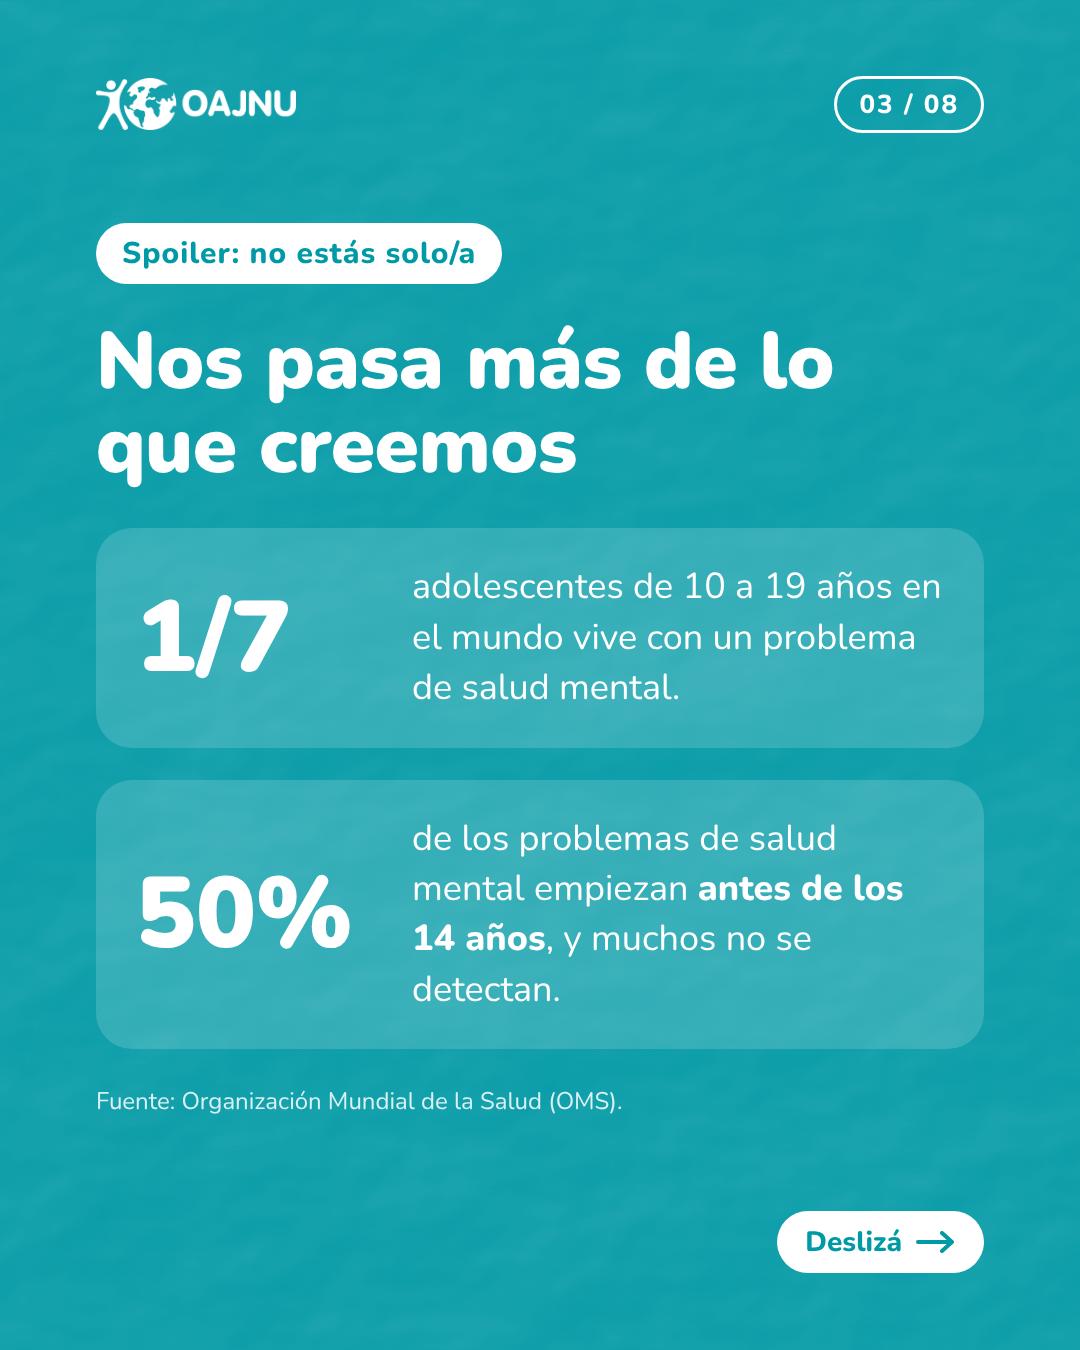
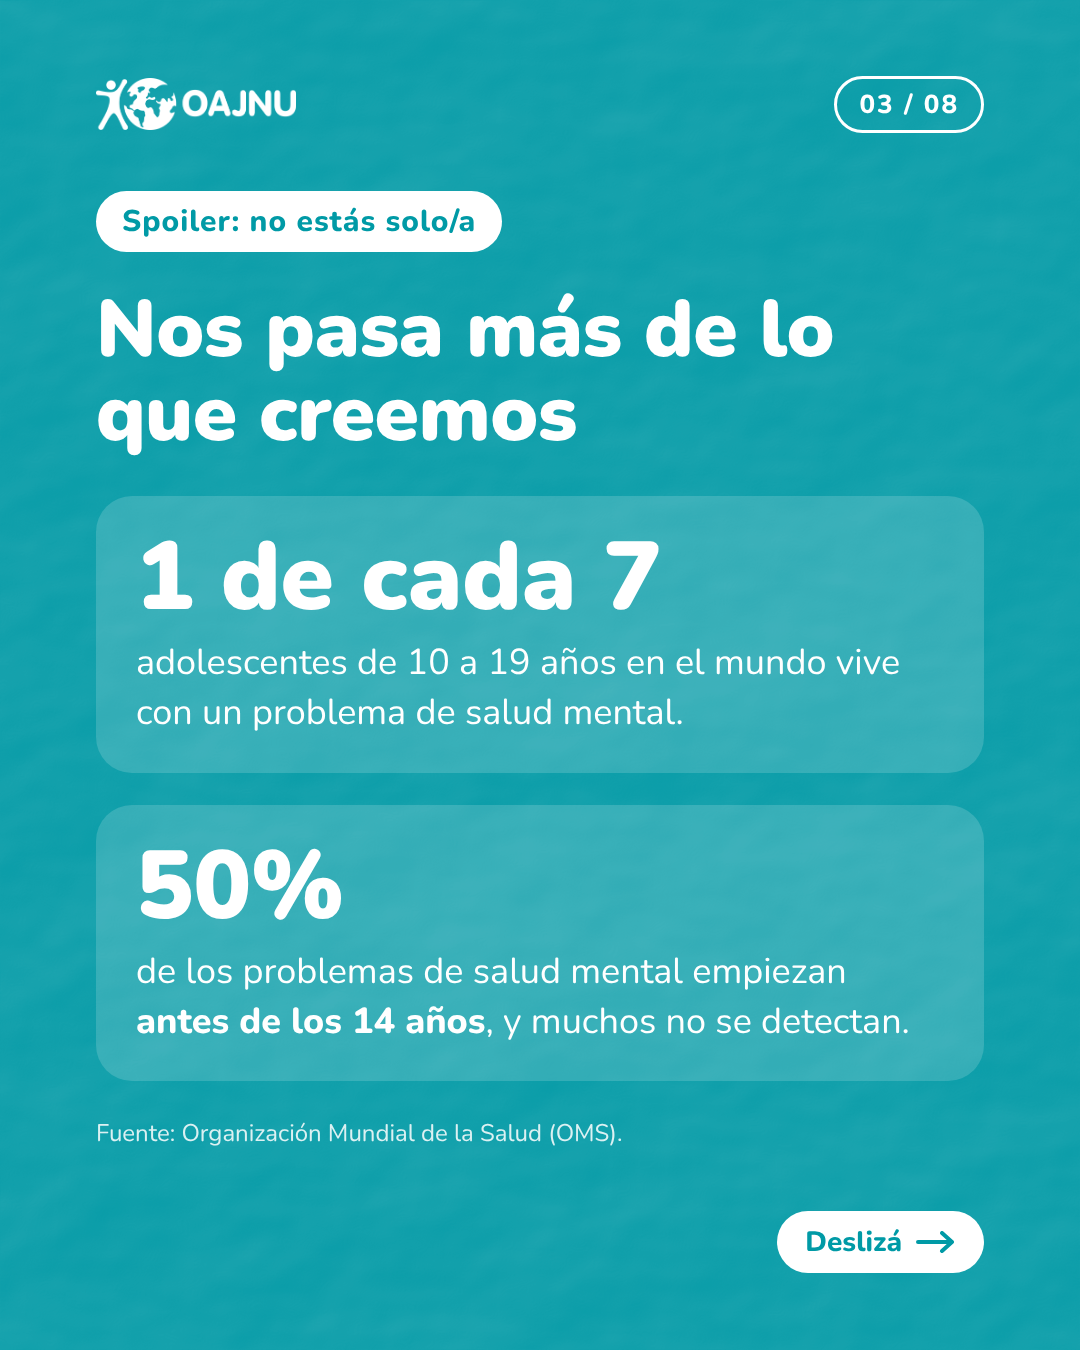
Placa 3: dato como "1 de cada 7" con número arriba y texto abajo
Claude-Session: https://claude.ai/code/session_01BXRxF7L7LKCtWKXhXPWCma

Changed region(s): [[0.0917, 0.1244, 0.9167, 0.8711]]

diff --git a/carrusel-salud-mental/carrusel.html b/carrusel-salud-mental/carrusel.html
@@ -121,8 +121,8 @@
 
   /* ---------- Placa 3: datos ---------- */
   .datos { display: flex; flex-direction: column; gap: 32px; }
-  .dato { display: flex; gap: 36px; align-items: center; }
-  .dato .num { font-weight: 900; font-size: 100px; line-height: 1; min-width: 240px; white-space: nowrap; }
+  .dato { display: flex; flex-direction: column; gap: 12px; }
+  .dato .num { font-weight: 900; font-size: 96px; line-height: 1; white-space: nowrap; }
   .dato p { font-size: 36px; }
   .fuente { font-size: 24px; opacity: 0.85; margin-top: 36px; }
 
@@ -255,7 +255,7 @@
     <h2>Nos pasa más de lo que creemos</h2>
     <div class="datos">
       <div class="dato tarjeta">
-        <span class="num">1/7</span>
+        <span class="num">1 de cada 7</span>
         <p>adolescentes de 10 a 19 años en el mundo vive con un problema de salud mental.</p>
       </div>
       <div class="dato tarjeta">
